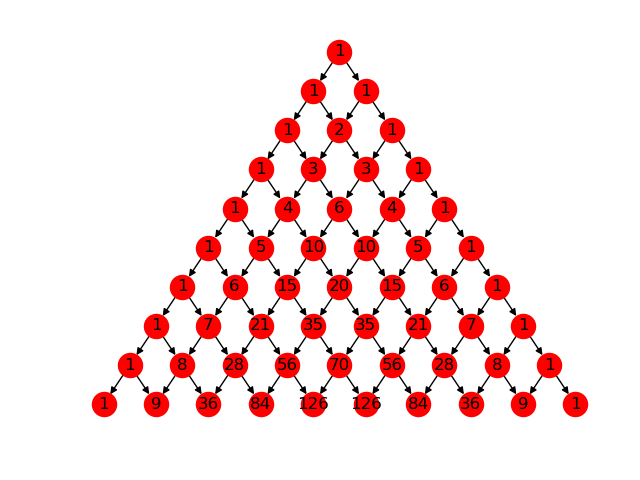
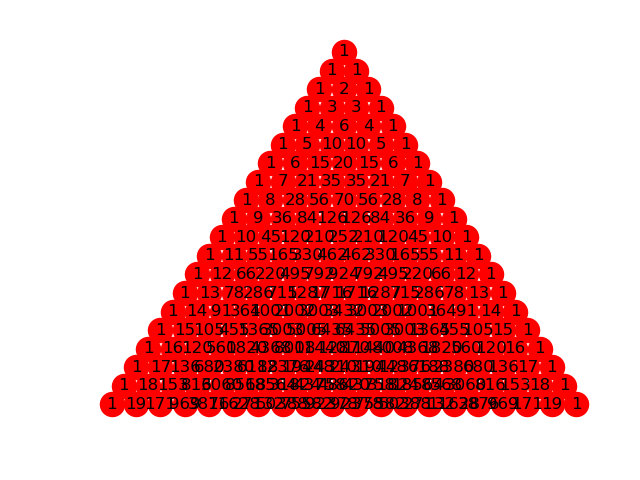
Working with R

Changed region(s): [[0.125, 0.0625, 0.9062, 0.875]]

diff --git a/Pascal's Triangle/PythonPascalsTriangle/src/graph.html b/Pascal's Triangle/PythonPascalsTriangle/src/graph.html
@@ -575,47 +575,6 @@ for (var k in _namespace) {
   }
 }
 
-// Define MPL specific subclasses
-function MPLSelectionWidget() {
-  SelectionWidget.apply(this, arguments);
-}
-
-function MPLScrubberWidget() {
-  ScrubberWidget.apply(this, arguments);
-}
-
-// Let them inherit from the baseclasses
-MPLSelectionWidget.prototype = Object.create(SelectionWidget.prototype);
-MPLScrubberWidget.prototype = Object.create(ScrubberWidget.prototype);
-
-// Define methods to override on widgets
-var MPLMethods = {
-  init_slider : function(init_val){
-    if(this.load_json) {
-      this.from_json()
-    } else {
-      this.update_cache();
-    }
-    if (this.dynamic | !this.cached | (this.current_vals === undefined)) {
-      this.update(0)
-    } else {
-      this.set_frame(this.current_vals[0], 0)
-    }
-  },
-  process_msg : function(msg) {
-    var data = msg.content.data;
-    this.frames[this.current] = data;
-    this.update_cache(true);
-    this.update(this.current);
-  }
-}
-// Extend MPL widgets with backend specific methods
-extend(MPLSelectionWidget.prototype, MPLMethods);
-extend(MPLScrubberWidget.prototype, MPLMethods);
-
-window.HoloViews.MPLSelectionWidget = MPLSelectionWidget
-window.HoloViews.MPLScrubberWidget = MPLScrubberWidget
-
 // Define Bokeh specific subclasses
 function BokehSelectionWidget() {
   SelectionWidget.apply(this, arguments);
@@ -684,6 +643,47 @@ extend(BokehScrubberWidget.prototype, BokehMethods);
 
 window.HoloViews.BokehSelectionWidget = BokehSelectionWidget
 window.HoloViews.BokehScrubberWidget = BokehScrubberWidget
+
+// Define MPL specific subclasses
+function MPLSelectionWidget() {
+  SelectionWidget.apply(this, arguments);
+}
+
+function MPLScrubberWidget() {
+  ScrubberWidget.apply(this, arguments);
+}
+
+// Let them inherit from the baseclasses
+MPLSelectionWidget.prototype = Object.create(SelectionWidget.prototype);
+MPLScrubberWidget.prototype = Object.create(ScrubberWidget.prototype);
+
+// Define methods to override on widgets
+var MPLMethods = {
+  init_slider : function(init_val){
+    if(this.load_json) {
+      this.from_json()
+    } else {
+      this.update_cache();
+    }
+    if (this.dynamic | !this.cached | (this.current_vals === undefined)) {
+      this.update(0)
+    } else {
+      this.set_frame(this.current_vals[0], 0)
+    }
+  },
+  process_msg : function(msg) {
+    var data = msg.content.data;
+    this.frames[this.current] = data;
+    this.update_cache(true);
+    this.update(this.current);
+  }
+}
+// Extend MPL widgets with backend specific methods
+extend(MPLSelectionWidget.prototype, MPLMethods);
+extend(MPLScrubberWidget.prototype, MPLMethods);
+
+window.HoloViews.MPLSelectionWidget = MPLSelectionWidget
+window.HoloViews.MPLScrubberWidget = MPLScrubberWidget
 </script>
 <script type="text/javascript">
     function CommManager() {
@@ -816,14 +816,14 @@ div.hologroup {
 
 
 
-  <div class="bk-root" id="92c0ee3f-fd27-4d14-a685-21451d46307a" data-root-id="1005"></div>
+  <div class="bk-root" id="83f890df-f500-46b2-aabb-dbc95c2471cd" data-root-id="1005"></div>
 
 <script type="text/javascript">
   (function(root) {
   function embed_document(root) {
     
[1 lines of base64/hex data omitted]
-  var render_items = [{"docid":"2ea14a02-6f87-4d42-9e8a-ff5db9e7630c","roots":{"1005":"92c0ee3f-fd27-4d14-a685-21451d46307a"}}];
[1 lines of base64/hex data omitted]
+  var render_items = [{"docid":"475fa214-261e-4178-9c67-ae151b7fc410","roots":{"1005":"83f890df-f500-46b2-aabb-dbc95c2471cd"}}];
   root.Bokeh.embed.embed_items_notebook(docs_json, render_items);
 
   }

diff --git a/Pascal's Triangle/PythonPascalsTriangle/src/Start.py b/Pascal's Triangle/PythonPascalsTriangle/src/Start.py
@@ -8,7 +8,7 @@ import holoviews as hv
 
 from holoviews import opts
 
-tree = PascalTree(10)		
+tree = PascalTree(20)		
 #At this point, the outerlying labels have been established.
 generator = GraphGenerator(tree)
 
@@ -22,6 +22,8 @@ nx.draw_networkx(generator.getGraph(), generator.getPos(), labels=generator.getL
 #n.show("ex.html")
 finalGraph = generator.getGraph()
 graph = hv.Graph.from_networkx(finalGraph, generator.getPos())
+
+%%opts Distribution [width=600 height=400]
 
 #(graph * labels.opts(text_font_size='8pt', text_color='white', bgcolor='gray'))
 
@@ -39,8 +41,3 @@ tree.printTree()
 #app = Viewer(generator.getGraph())
 #app.mainloop()
 print("Complete")
-
-
-#Current issues:
-#Node has no position - Node count is going to 65?
-#Labels aren't generating properly (all 1s)
